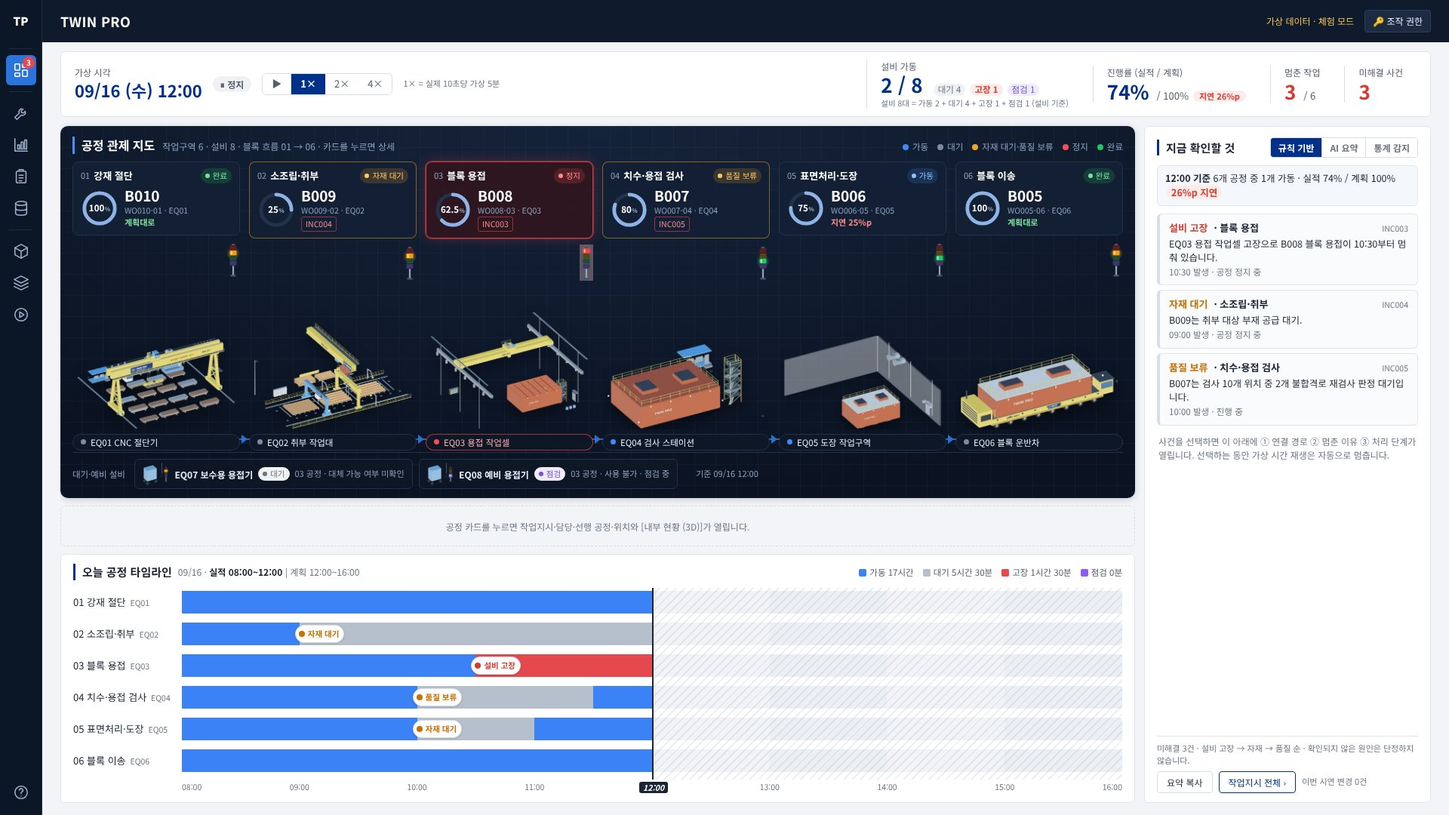
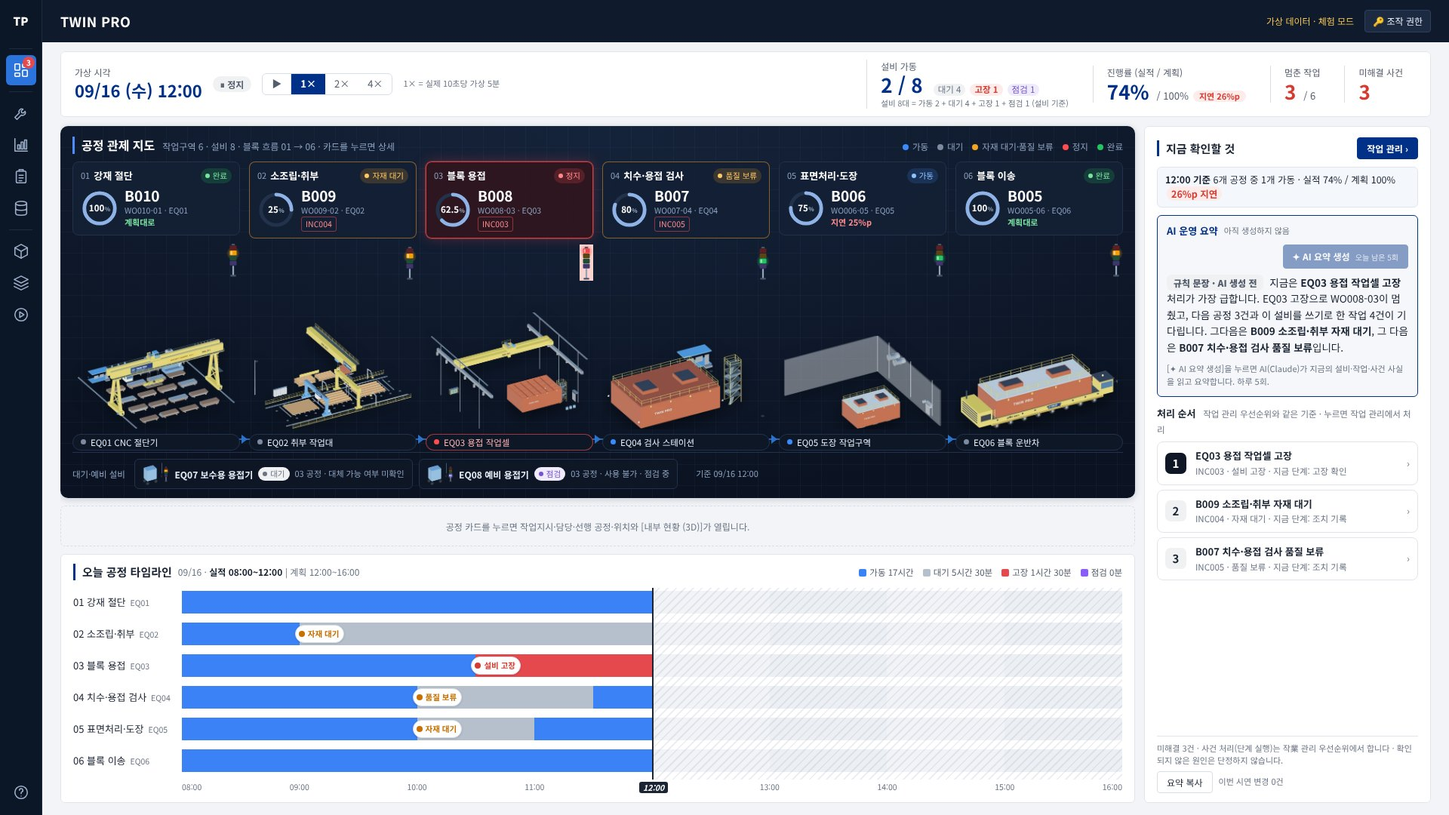
관제 '지금 확인할 것' = AI 요약 + 처리 순서, 버튼은 [작업 관리 ›] 하나
- 탭(규칙 기반 · AI 요약 · 통계 감지)과 관제 안의 사건 목록·처리 단계 삭제
- AI 운영 요약(생성 전에는 규칙 문장으로 표시) + 처리 순서 1·2·3(작업 관리 우선순위와 같은 계산)
- 처리 순서 줄·[작업 관리 ›] → 작업 관리 우선순위(그 사건 선택, 재생 자동 정지, 추적 칩)
- 우선순위 카드에 '왜 멈췄나요?' · 관련 가능성 · 설명도 버튼 추가, 다른 화면의 '관제에서 처리' 버튼은 작업 관리로 연결
- e2e 148/148

Claude-Session: https://claude.ai/code/session_0118yJohinjDPUbRGhyax1CZ

diff --git a/index.html b/index.html
@@ -1248,6 +1248,16 @@ td .small { line-height: 18px; }
 .simverr { display: none; position: absolute; left: 50%; top: 40%; transform: translate(-50%, -50%); background: rgba(11,17,27,.92); border: 1px solid #E5484D; color: #FFB3B5; padding: 12px 16px; border-radius: 8px; font-size: 13px; max-width: 520px; text-align: center; }
 .simvid.err .simverr { display: block; }
 .txctl.simmode .txb { flex: 1; }
+/* 관제 '지금 확인할 것': AI 요약 + 처리 순서(작업 관리로 이동) */
+.primini { display: flex; flex-direction: column; gap: 6px; margin-top: 12px; }
+.primini .pmh { font-size: 13px; font-weight: 700; } .primini .pmh small { font-weight: 400; color: var(--fg3); margin-left: 6px; font-size: 11.5px; }
+.pmi { display: grid; grid-template-columns: 30px minmax(0, 1fr) auto; align-items: center; gap: 10px; text-align: left; border: 1px solid var(--line); border-radius: 8px; background: #fff; padding: 8px 10px; }
+.pmi:hover { border-color: #0F1726; } .pmi > b { width: 28px; height: 28px; border-radius: 7px; background: var(--n-bg); display: grid; place-items: center; font-size: 15px; }
+.pmi.r1 > b { background: #0F1726; color: #fff; } .pmi em { display: block; font-style: normal; font-weight: 700; font-size: 13px; } .pmi small { display: block; font-size: 11.5px; color: var(--fg3); } .pmi > i { font-style: normal; color: var(--fg3); }
+.ai-text.rule { font-size: 13.5px; line-height: 1.6; } .ai-text.rule .pv-tag { margin-right: 4px; }
+.pv-whyt { font-size: 13px; line-height: 1.55; color: var(--fg); background: #F7F8FA; border-radius: 8px; padding: 7px 10px; } .pv-whyt em { font-style: normal; font-weight: 700; margin-right: 8px; }
+.pv-whyt .pv-rel { display: block; margin-top: 3px; font-size: 12px; color: #B86E00; }
+@media (max-height: 860px) { .pmi { padding: 6px 9px; } .primini { margin-top: 8px; } }
 .iso{
   --anatomy-page:#0b0b0b;--anatomy-card:#131313;--anatomy-text:#a3a3a3;--anatomy-strong:#e6e6e6;--anatomy-muted:#6e6e6e;
   --anatomy-paper:#131313;--anatomy-face:#1b1b1b;--anatomy-top:#1c1c1c;
@@ -1912,53 +1922,29 @@ function viewDash() {
       ${detail}
       ${dayTimeline()}
     </div>
-    <section class="d3side panel sidecard"><div class="ph"><h2>지금 확인할 것</h2><span class="grow"></span><span class="ptabs"><button class="${sumTab() === 'rule' ? 'on' : ''}" data-act="sub" data-arg="sum:rule">규칙 기반</button><button class="${sumTab() === 'ai' ? 'on' : ''}" data-act="sub" data-arg="sum:ai">AI 요약</button><button class="${sumTab() === 'spc' ? 'on' : ''}" data-act="sub" data-arg="sum:spc">통계 감지</button></span></div>
+    <section class="d3side panel sidecard"><div class="ph"><h2>지금 확인할 것</h2><span class="grow"></span><button class="btn pri" data-act="goPri">작업 관리 ›</button></div>
       <div class="sitline">${sitLine()}</div>
-      ${sumTab() === 'rule' ? incPanel() : `<div class="sumbody">${sumTab() === 'ai' ? aiBox() : spcBox()}</div>`}
-      <div class="sidefoot"><span class="small">미해결 ${openIncidents().length}건 · 설비 고장 → 자재 → 품질 순 · 확인되지 않은 원인은 단정하지 않습니다.</span><div class="row"><button class="btn" data-act="copySummary">요약 복사</button><button class="btn line" data-act="goWoAll">작업지시 전체 ›</button><span class="small">이번 시연 변경 ${S.events.length}건</span></div></div>
+      <div class="sumbody">${aiBox()}${priMini()}</div>
+      <div class="sidefoot"><span class="small">미해결 ${openIncidents().length}건 · 사건 처리(단계 실행)는 작업 관리 우선순위에서 합니다 · 확인되지 않은 원인은 단정하지 않습니다.</span><div class="row"><button class="btn" data-act="copySummary">요약 복사</button><span class="small">이번 시연 변경 ${S.events.filter(e => e.text !== '데모 데이터 초기화').length}건</span></div></div>
     </section>
   </div></div>`;
 }
-const sumTab = () => UI.sub.sum || 'rule';
-function spcBox() {   // 통계 이상 감지(관리도) 표: 계산은 model.js spc()
-  const SPC_L = { g: '정상', o: '주의', r: '이상' }, all = spc(), skip = all.filter(x => x.st === 'skip');
-  const rows = all.filter(x => x.st !== 'skip').map(x => { const inc = openIncidents().find(i => i.work_order_id === x.w.work_order_id);
-    const tag = x.st === 'g' ? '' : inc ? ` · ${inc.incident_id}` : ' · 사건 없음';
-    return `<tr title="${x.w.work_order_id} · 기준: 같은 공정 ${x.base.n}시간, 계획 속도 대비 평균 ${pct(x.base.m * 100, 0)} ± ${pct(x.base.sd * 100, 0)}${x.st !== 'g' && !inc ? ' · 사건이 없으니 현장 확인 필요' : ''}"><td>${p2(x.p.sequence_no)} ${esc(x.p.process_name)}</td>
-      <td>${+x.q.toFixed(1)} ${unit(x.w.unit)} (${pct(x.r * 100, 0)})</td><td class="num">${x.z.toFixed(1)}</td><td><span class="badge ${x.st}">${SPC_L[x.st]}${tag}</span></td></tr>`; }).join('');
-  return `<div class="tw"><table class="spc"><thead><tr><th>공정</th><th>직전 1시간</th><th class="num">z</th><th>판정</th></tr></thead><tbody>${rows}</tbody></table></div>
-    <span class="small">관리도: 직전 1시간 실적 ÷ 계획 속도를 09/07~09/15 같은 공정 분포와 비교. z = 평균에서 표준편차 몇 배 떨어졌는지, |z| ≥ 2 주의 · ≥ 3 이상.${skip.length ? ` 제외: ${skip.map(x => `${p2(x.p.sequence_no)}(${x.why})`).join(', ')}.` : ''} 실적은 가상 데이터(변동 포함), 원인은 판단하지 않습니다.</span>`;
+// 사건 설명 문장(작업 관리 우선순위 카드의 '왜 멈췄나요?'): 서버 상태 그대로, 확인되지 않은 원인은 단정하지 않음
+function incWhy(inc) {
+  const w = inc.work_order_id && S.wo[inc.work_order_id];
+  const min = (inc.resolved_at ? toM(inc.resolved_at) : S.now) - toM(inc.opened_at);
+  const moved = w && inc.category === 'EQUIPMENT' && w.equipment_id !== inc.equipment_id;
+  return inc.category === 'EQUIPMENT'
+    ? `${esc(eqName(inc.equipment_id))}이 ${hm(inc.opened_at)}에 고장 나 ${w ? `${w.block_id} ${esc(proc(w.process_id).process_name)}(${w.work_order_id})이 멈췄습니다. ` : ''}${inc.status === 'OPEN' ? `${minLabel(min)}째 사건이 열려 있습니다. ` : ''}${moved ? `남은 작업은 대체 설비 ${w.equipment_id}로 옮겨 ${STATUS.wo[w.status][0]} 상태입니다. ${inc.status === 'OPEN' ? `사건은 ${inc.equipment_id} 복구 때까지 열려 있습니다.` : ''}` : w ? `남은 작업은 ${pct((1 - actRatio(w)) * 100)}입니다.` : ''} 원인: ${esc(inc.summary)}`
+    : inc.category === 'MATERIAL' ? `${w ? w.block_id + ' ' + esc(proc(w.process_id).process_name) + '이 ' : ''}${esc(inc.summary)}로 멈춰 있습니다. ${esc(inc.action_note || '')}`
+    : `${w ? w.block_id + ' 검사에서 ' : ''}${esc(inc.summary)}. ${esc(inc.action_note || '')}`;
 }
-function incPanel() {
-  const list = curIncs(), inc = UI.sel.inc && incById(UI.sel.inc);
-  const item = i => { const w = i.work_order_id && S.wo[i.work_order_id], p = w ? proc(w.process_id) : proc(eqOf(incEquipment(i)).process_id);
-    const head = i.category === 'EQUIPMENT' ? `${p2(p.sequence_no)} ${esc(p.process_name)} · ${esc(eqName(i.equipment_id))}` : `${p2(p.sequence_no)} ${esc(p.process_name)} · ${esc(i.summary)}`;
-    const eq = i.equipment_id ? eqOf(i.equipment_id) : w && eqOf(w.equipment_id);
-    return `<button class="iitem ${inc === i ? 'sel' : ''}" data-act="selInc" data-arg="${i.incident_id}"><span class="row"><b class="ihd ${STATUS.cat[i.category][1]}">${STATUS.cat[i.category][0]}</b><b>· ${esc(p.process_name)}</b><span class="grow"></span>${i.status === 'RESOLVED' ? badge('inc', 'RESOLVED', '종료') : `<small class="icode">${i.incident_id}</small>`}</span>
-      <span class="iline">${i.status === 'OPEN' ? esc(incSentence(i)) : `${eq ? esc(eqName(eq.equipment_id)) : ''}${w ? ' · ' + w.block_id : ''}`}</span>
-      <small>${hm(i.opened_at)} 발생 · ${i.status === 'OPEN' ? (w && w.status === 'BLOCKED' ? '공정 정지 중' : '진행 중') : '처리 완료'}</small></button>`; };
-  let body = `<div class="ihint">사건을 선택하면 이 아래에 ① 연결 경로 ② 멈춘 이유 ③ 처리 단계가 열립니다. 선택하는 동안 가상 시간 재생은 자동으로 멈춥니다.</div>`;
-  if (inc) {
-    const cs = caseSteps(inc), w = cs.w, a = cs.active;
-    const rel = relatedIncs(inc);
-    const path = `<div class="path"><div><span class="tag">사건</span>${inc.incident_id} ${STATUS.cat[inc.category][0]} · ${hm(inc.opened_at)}</div>${w ? `<i>↓</i><div><span class="tag">작업</span>${w.work_order_id} · ${w.block_id} ${esc(proc(w.process_id).process_name)}</div>` : ''}
-      ${inc.category === 'EQUIPMENT' ? `<i>↓</i><div><span class="tag">설비</span>${esc(eqName(inc.equipment_id))} · ${STATUS.eq[eqOf(inc.equipment_id).status][0]}</div>` : ''}
-      ${rel.map(r => `<div class="maybe"><span class="tag">관련 가능성 · 확인 필요</span>${r.incident_id} ${S.wo[r.work_order_id].block_id} ${esc(r.summary)} — ${inc.equipment_id}에서 앞 공정을 한 블록</div>`).join('')}</div>`;
-    const min = (inc.resolved_at ? toM(inc.resolved_at) : S.now) - toM(inc.opened_at);
-    const moved = w && inc.category === 'EQUIPMENT' && w.equipment_id !== inc.equipment_id;
-    const why = inc.category === 'EQUIPMENT'
-      ? `${esc(eqName(inc.equipment_id))}이 ${hm(inc.opened_at)}에 고장 나 ${w ? `${w.block_id} ${esc(proc(w.process_id).process_name)}(${w.work_order_id})이 멈췄습니다. ` : ''}${inc.status === 'OPEN' ? `${minLabel(min)}째 사건이 열려 있습니다. ` : ''}${moved ? `남은 작업은 대체 설비 ${w.equipment_id}로 옮겨 ${STATUS.wo[w.status][0]} 상태입니다. ${inc.status === 'OPEN' ? `사건은 ${inc.equipment_id} 복구 때까지 열려 있습니다.` : ''}` : w ? `남은 작업은 ${pct((1 - actRatio(w)) * 100)}입니다.` : ''} 원인: ${esc(inc.summary)}`
-      : inc.category === 'MATERIAL' ? `${w ? w.block_id + ' ' + esc(proc(w.process_id).process_name) + '이 ' : ''}${esc(inc.summary)}로 멈춰 있습니다. ${esc(inc.action_note || '')}`
-      : `${w ? w.block_id + ' 검사에서 ' : ''}${esc(inc.summary)}. ${esc(inc.action_note || '')}`;
-    const steps = cs.st.map((x, n) => `<li class="${x.done ? 'done' : x === a ? 'on' : ''}"><b>${x.done ? '✓' : n + 1}</b>${x.title}</li>${x === a ? `<li class="ictlrow">${stepCtl(inc, cs, a)}</li>` : ''}`).join('');
-    const compact = a && cs.st.indexOf(a) >= 2;   // 처리가 진행되면 연결 경로를 한 줄로 줄여 처리 단계를 위로 올린다
-    body = `<div class="ph"><h3>연결 경로</h3><span class="badge g">사실</span></div>${compact ? `<div class="small" style="font-size:13px;color:var(--fg)">${inc.incident_id} → ${w ? `${w.work_order_id} (${w.block_id}) → ` : ''}${inc.category === 'EQUIPMENT' ? inc.equipment_id + ' 고장' : STATUS.cat[inc.category][0]}${rel.length ? ` · 관련 가능성 ${rel.map(r => r.incident_id).join(', ')}(확인 필요)` : ''}</div>` : path}
-      <div class="why"><b>왜 멈췄나요?</b>${why}${figHtml(inc)}</div>
-      <div class="ph"><h3>처리 단계 · ${STATUS.cat[inc.category][0]}</h3></div><ol class="isteps">${steps}</ol>
-      ${a ? '' : `<div class="note ok"><b>${UI.trial ? '처리 완료 (체험 · 저장 안 됨)' : '처리 완료'}</b>${w ? `${w.work_order_id} ${STATUS.wo[w.status][0]} · ` : ''}${inc.category === 'EQUIPMENT' ? `${inc.equipment_id} ${STATUS.eq[eqOf(inc.equipment_id).status][0]}` : ''}</div>`}`;
-  }
-  return `<section class="ipanel">
-    <div class="ilist">${list.map(item).join('') || '<div class="empty">미해결 사건이 없습니다.</div>'}</div>${body}</section>`;
+const incRelText = inc => relatedIncs(inc).map(r => `관련 가능성(확인 필요): ${r.incident_id} ${S.wo[r.work_order_id].block_id} ${esc(r.summary)} — ${inc.equipment_id}에서 앞 공정을 한 블록`).join('<br>');
+// 관제 오른쪽 '지금 확인할 것': AI 요약 + 처리 순서(작업 관리 우선순위와 같은 계산). 처리는 작업 관리에서
+function priMini() {
+  const L = priorities(); if (!L.length) return '<div class="empty">미해결 사건이 없습니다.</div>';
+  return `<div class="primini"><div class="pmh">처리 순서 <small>작업 관리 우선순위와 같은 기준 · 누르면 작업 관리에서 처리</small></div>${L.map(x => { const a = caseSteps(x.inc).active;
+    return `<button class="pmi r${Math.min(x.rank, 3)}" data-act="goPri" data-arg="${x.inc.incident_id}"><b>${x.rank}</b><span><em>${esc(priHead(x))}</em><small>${x.inc.incident_id} · ${STATUS.cat[x.inc.category][0]} · ${a ? '지금 단계: ' + a.title : '처리 완료'}</small></span><i>›</i></button>`; }).join('')}</div>`;
 }
 // 사건 설명도(Anatomy 키트로 만든 그림, 분해·조립 동작 포함). 사건 패널 '왜 멈췄나요?'의 버튼으로 크게 연다.
 // INC003 = EQ03 용접기 경보(B008), INC004 = B009 부재 공급 대기, INC005 = B007 검사 불합격. 그림은 figures/<id>/build.mjs로 만든다.
@@ -2044,7 +2030,7 @@ function aiBox() {
   return `<div class="ai-box"><div class="ai-h"><b>AI 운영 요약</b><span class="small">${S.ai ? `시연 시각 ${hm(S.ai.sim_at)} 기준${fresh ? '' : ' · <span class="c-o">이후 변경 있음</span>'}` : '아직 생성하지 않음'}</span>
     <button class="btn pri" data-act="aiGen" ${why || UI.aiBusy ? `disabled title="${why || '생성 중'}"` : ''}>${UI.aiBusy ? '생성 중…' : `✦ AI 요약 생성`} <small>오늘 남은 ${left}회</small></button></div>
     ${S.ai ? `<div class="ai-text" id="aiText">${esc(S.ai.text)}</div><span class="small">Claude(${esc(S.ai.model || '')})가 서버 DB의 현재 값만으로 작성 · 하루 ${AI_LIMIT}회 제한</span>`
-      : `<span class="small">버튼을 누르면 AI(Claude)가 지금의 설비·작업·사건 사실을 읽고 요약합니다. 하루 ${AI_LIMIT}회.</span>`}</div>`;
+      : `<div class="ai-text rule"><span class="pv-tag rule">규칙 문장 · AI 생성 전</span> ${priSentence(priorities())}</div><span class="small">[✦ AI 요약 생성]을 누르면 AI(Claude)가 지금의 설비·작업·사건 사실을 읽고 요약합니다. 하루 ${AI_LIMIT}회.</span>`}</div>`;
 }
 function histText(h) { return h ? `${hm(h.event_at)} ${STATUS.his[h.event_type] || h.event_type} · ${h.note || ''}` : '-'; }
 // 관제 오른쪽 카드 맨 위 한 줄: 운영 요약의 전체 문장(가동 공정 · 실적 대비 계획)
@@ -2114,10 +2100,10 @@ function viewEq() {
       <div class="small">${md(inc.opened_at)} ${hm(inc.opened_at)} 발생 · ${esc(inc.summary)}${w ? ` · ${w.work_order_id} (${w.block_id}) ${STATUS.wo[w.status][0]}${w.equipment_id !== id ? ' · 대체 설비 ' + w.equipment_id : ''}` : ''}</div>
       ${inc.action_note ? `<div><b style="font-size:12px">엑셀 기록 조치 메모:</b> <span style="font-size:12px">${esc(inc.action_note)} · 담당 ${esc(inc.owner_team)}</span></div>` : ''}
       ${inc.actions.length ? `<div class="tw"><table><thead><tr><th>시각</th><th>담당</th><th>조치 내용(서버 기록)</th></tr></thead><tbody>${inc.actions.map(a => `<tr><td>${hm(a.at)}</td><td>${esc(a.owner)}</td><td>${esc(a.note)}</td></tr>`).join('')}</tbody></table></div>` : ''}
-      <div class="row"><span class="small grow">사건 처리는 관제 사건 패널에서만 합니다(처리 단계 순서를 지키기 위해).</span><button class="btn pri" data-act="goInc" data-arg="${inc.incident_id}">관제 사건 패널로 ›</button></div></div>`;
+      <div class="row"><span class="small grow">사건 처리는 작업 관리 우선순위에서 합니다(처리 단계 순서를 지키기 위해).</span><button class="btn pri" data-act="goInc" data-arg="${inc.incident_id}">작업 관리에서 처리 ›</button></div></div>`;
   } else action = `<div class="empty">이 설비에 미해소 사건이 없습니다.</div>`;
   const eqBtns = e.status === 'FAULT'
-    ? `<span class="small">설비 복구는 관제 사건 패널의 [설비 복구 후 사건 종료] 단계에서 합니다.</span>`
+    ? `<span class="small">설비 복구는 작업 관리 우선순위의 [설비 복구 후 사건 종료] 단계에서 합니다.</span>`
     : UI.faultForm ? `<div class="field" style="flex:1"><span class="lb">고장 증상</span><div class="in" style="flex:1"><input type="text" id="faultSum" data-draft="faultSum" value="${esc(draft('faultSum', ''))}" placeholder="예: 도장 펌프 압력 저하" style="flex:1"></div></div>
         ${selectBox('faultSev', [['HIGH', 'HIGH'], ['MEDIUM', 'MEDIUM'], ['LOW', 'LOW']], draft('faultSev', 'HIGH'), 'data-draft')}<button class="btn danger" data-act="registerFault" data-arg="${id}">고장 등록</button><button class="btn" data-act="faultForm">취소</button>`
       : `<button class="btn danger" data-act="faultForm">고장 등록…</button><span class="small">고장 등록 시 이 설비의 진행 중 작업이 보류됩니다.</span>`;
@@ -2211,7 +2197,7 @@ function viewProd() {
       <div class="board">${cols}<div class="bcol done"><div class="bcolh"><span class="bdone">✓</span><b>다 끝난 블록</b><small>이송까지 완료 ${done.length}개</small></div><div class="bcolb">${done.map(chip).join('') || '<span class="bempty">없음</span>'}</div></div></div></section>
     <section class="panel pgside"><div class="ph"><h2>${sel} 블록이 거쳐 온 길</h2>${bws.some(isDelayed) ? '<span class="badge delay">지연</span>' : ''}<span class="sub">${esc(b.block_name)} · ${b.vessel_id} · ${b.weight_t}t · 목표 이송 ${md(b.target_transfer_at)} ${hm(b.target_transfer_at)}</span></div>
       <div class="journey">${steps}</div>
-      ${binc.length ? `<div class="alertbox"><b>멈춘 이유</b>${binc.map(i => `<div class="row"><span class="grow">${i.incident_id} ${STATUS.cat[i.category][0]} · ${esc(i.summary)}</span><button class="btn pri" data-act="goInc" data-arg="${i.incident_id}">관제에서 처리 ›</button></div>`).join('')}</div>` : ''}
+      ${binc.length ? `<div class="alertbox"><b>멈춘 이유</b>${binc.map(i => `<div class="row"><span class="grow">${i.incident_id} ${STATUS.cat[i.category][0]} · ${esc(i.summary)}</span><button class="btn pri" data-act="goInc" data-arg="${i.incident_id}">작업 관리에서 처리 ›</button></div>`).join('')}</div>` : ''}
       <div class="links">${cw ? `<button class="btn line" data-act="goEq" data-arg="${cw.equipment_id}">설비 ${cw.equipment_id} 보기 ›</button><button class="btn line" data-act="goWo" data-arg="${cw.work_order_id}">작업지시 ${cw.work_order_id} 열기 ›</button>` : ''}</div></section>
   </div></div>`;
 }
@@ -2322,10 +2308,10 @@ function woEditor(w) {
     <div class="sdfacts wofacts"><div><span>블록</span><b>${w.block_id}</b><small>${esc(S.blocks[w.block_id].block_name)}</small></div><div><span>공정</span><b>${w.process_id.slice(1)} ${esc(p.process_name)}</b></div>
       <div><span>계획 기간</span><b>${md(w.planned_start_at)} ${hm(w.planned_start_at)}~${hm(w.planned_end_at)}</b></div><div><span>진행</span><b>${+w.accepted_qty.toFixed(1)} / ${w.planned_qty} ${unit(w.unit)}</b><small>${pct(w.progress_ratio * 100)}</small></div>
       ${h ? `<div class="wide"><span>멈춘 이유</span><b class="c-r">${h.incident_id} · ${esc(h.summary)} (${STATUS.inc[h.status][0]})</b></div>` : ''}</div>
-    ${lockInc ? `<div class="wolock"><b>${STATUS.cat[lockInc.category][0]} 사건 ${lockInc.incident_id} 미해결 → 이 작업을 '진행'으로 바꿀 수 없습니다.</b><span>관제에서 사건을 먼저 처리(${lockInc.category === 'EQUIPMENT' ? '설비 복구 또는 대체 설비 승인' : '조치 기록 → 해소'})하세요. 여기서 바로 바꾸면 서버가 거부합니다.</span><button class="btn pri" data-act="goInc" data-arg="${lockInc.incident_id}">${lockInc.incident_id} 사건 처리하기 ›</button></div>` : ''}
+    ${lockInc ? `<div class="wolock"><b>${STATUS.cat[lockInc.category][0]} 사건 ${lockInc.incident_id} 미해결 → 이 작업을 '진행'으로 바꿀 수 없습니다.</b><span>작업 관리 우선순위에서 사건을 먼저 처리(${lockInc.category === 'EQUIPMENT' ? '설비 복구 또는 대체 설비 승인' : '조치 기록 → 해소'})하세요. 여기서 바로 바꾸면 서버가 거부합니다.</span><button class="btn pri" data-act="goInc" data-arg="${lockInc.incident_id}">${lockInc.incident_id} 사건 처리하기 ›</button></div>` : ''}
     <h3 class="sdh">② 바꿀 것</h3>
     <div class="form">
-      <div class="frow"><span class="req">설비</span><div>${lockInc ? `<input readonly value="${esc(eqName(w.equipment_id))}" style="width:auto;flex:1"><span class="small">🔒 ${lockInc.incident_id} 미해결 중 · 설비 변경은 별도 승인 필요</span><button class="btn line" data-act="goInc" data-arg="${lockInc.incident_id}">관제에서 처리 ›</button>`
+      <div class="frow"><span class="req">설비</span><div>${lockInc ? `<input readonly value="${esc(eqName(w.equipment_id))}" style="width:auto;flex:1"><span class="small">🔒 ${lockInc.incident_id} 미해결 중 · 설비 변경은 별도 승인 필요</span><button class="btn line" data-act="goInc" data-arg="${lockInc.incident_id}">우선순위에서 처리 ›</button>`
         : `${selectBox('woEq', eqOptions, draft('woEq', w.equipment_id), 'data-draft')}<span class="small">같은 공정 설비만 · 고장·점검 설비는 서버가 거부</span>`}</div></div>
       <div class="frow"><span class="req">작업 상태</span><div><div class="seg">${['PLANNED', 'IN_PROGRESS', 'BLOCKED', 'COMPLETED'].map(s => `<button class="${st === s ? 'on' : ''}" data-act="woStatus" data-arg="${s}">${STATUS.wo[s][0]}</button>`).join('')}</div></div></div>
       <div class="frow"><span>인정수량</span><div><input type="number" id="woQty" data-draft="woQty" min="0" max="${w.planned_qty}" step="any" value="${esc(draft('woQty', w.accepted_qty))}" style="width:120px"><span class="small">/ ${w.planned_qty} ${unit(w.unit)} · 진행률 ${pct(w.progress_ratio * 100)}</span></div></div>
@@ -2448,7 +2434,7 @@ const ACT = {
   goWoAll() { UI.mode.wo = 'table'; UI.keepMode = true; UI.f.wo = { proc: '', st: '', date: '16-17', q: '', overdue: false }; UI.page.wo = 1; UI.sub.wo = 'list'; ACT.go('wo'); },
   goOverdue() { UI.mode.wo = 'table'; UI.keepMode = true; UI.f.wo = { proc: '', st: '', date: '', q: '', overdue: true }; UI.page.wo = 1; UI.sub.wo = 'list'; ACT.go('wo'); },
   goBlock(id) { UI.mode.prod = 'table'; UI.keepMode = true; if (id) UI.sel.block = id; UI.f.prod = { vessel: '', proc: '', st: '', q: '' }; ACT.go('prod'); },
-  goInc(id) { ACT.go('dash'); ACT.selInc(id); },
+  goInc(id) { ACT.goPri(id); },   // 사건 처리는 작업 관리 우선순위에서
   selEq(id) { UI.sel.eq = id; UI.sel.inc = null; UI.faultForm = false; delete UI.draft.actNote; render(); },
   selInc(id) { UI.sel.inc = id; const i = incById(id); UI.sel.node = i && i.work_order_id || null; delete UI.draft.subEq; UI.figModal = false;
     if (UI.simOn) { stopSim(); UI.pausedFor = '사건 확인 중'; } render(); },   // 사건을 고르면 재생을 자동으로 멈춘다
@@ -2456,7 +2442,7 @@ const ACT = {
   selEqInc(id) { UI.sel.inc = id; render(); },
   selNode(id) { UI.sel.node = UI.sel.node === id ? null : id; render(); },
   subEq(e) { UI.draft.subEq = e; render(); },
-  figOpen() { UI.figModal = true; render(); },
+  figOpen(id) { if (id) UI.sel.inc = id; UI.figModal = true; render(); },
   figClose() { UI.figModal = false; render(); },
   speed(v) { UI.speed = +v; if (UI.simOn) { clearInterval(simTimer); simTimer = setInterval(simTick, simMs()); } render(); },
   stepDo(k) { return stepDo(incById(UI.sel.inc), k); },
@@ -2523,7 +2509,7 @@ Object.assign(ACT, {
     try { const r = await API.ai(); toast(r.msg || (r.ok ? '완료' : '실패'), !r.ok); if (!r.ok && /시연 코드가 필요/.test(r.msg || '')) { UI.canWrite = false; UI.codeOpen = true; } }
     catch (e) { toast('AI 서버 호출 실패: ' + (e.message || e), true); }
     finally { UI.aiBusy = false; await reload().catch(() => render()); } },
-  copySummary() { const t = sumTab() === 'ai' && S.ai ? S.ai.text : summaryText(kpis()); navigator.clipboard?.writeText(t).then(() => toast('운영 요약을 복사했습니다.'), () => { const r = document.createRange(); r.selectNodeContents(document.getElementById('summaryText') || document.getElementById('aiText')); getSelection().removeAllRanges(); getSelection().addRange(r); toast('복사가 막혀 있어 요약 문장을 선택해 두었습니다. Ctrl+C로 복사하세요.'); }); },
+  copySummary() { const t = S.ai ? S.ai.text : summaryText(kpis()); navigator.clipboard?.writeText(t).then(() => toast('운영 요약을 복사했습니다.'), () => { const r = document.createRange(); r.selectNodeContents(document.getElementById('summaryText') || document.getElementById('aiText')); getSelection().removeAllRanges(); getSelection().addRange(r); toast('복사가 막혀 있어 요약 문장을 선택해 두었습니다. Ctrl+C로 복사하세요.'); }); },
 });
 // 자동 재생: 이 탭에서만 돈다(탭을 닫으면 멈춤). 신호는 전부 서버 규칙을 거친다.
 let simTimer = null, simBusy = false;
@@ -2736,8 +2722,9 @@ function priCard(x, sel) {
     <div class="pv-pb"><div class="pv-pt">${esc(priHead(x))}<small>${id} · ${STATUS.cat[x.inc.category][0]}</small></div>
       <div class="pv-why">${chip('blocks', x.blocks ? '예' : '아니오')}${chip('stopped', x.stopped ? '예' : '아니오')}${chip('min', minLabel(x.min))}${chip('wait', x.wait + '건')}${sub}</div>
       <div class="pv-path"><em>근거 경로</em>${path}</div>
+      ${sel ? `<div class="pv-whyt"><em>왜 멈췄나요?</em>${incWhy(x.inc)}${relatedIncs(x.inc).length ? `<span class="pv-rel">${incRelText(x.inc)}</span>` : ''}</div>` : ''}
       ${sel ? steps : `<div class="pv-do"><em>지금 단계</em>${a ? a.title : '처리 완료'}<span class="grow"></span><button class="btn">처리하기 ›</button></div>`}
-      ${sel ? `<div class="pv-links">${x.wo ? `<button class="btn line" data-act="goWo" data-arg="${x.wo}">작업지시 ${x.wo} 열기 ›</button>` : ''}<button class="btn line" data-act="goInc" data-arg="${id}">관제에서 보기 ›</button></div>` : ''}</div></div>`;
+      ${sel ? `<div class="pv-links">${x.wo ? `<button class="btn line" data-act="goWo" data-arg="${x.wo}">작업지시 ${x.wo} 열기 ›</button>` : ''}${hasFig(x.inc) ? `<button class="btn line" data-act="figOpen" data-arg="${id}">🔍 ${x.inc.category === 'EQUIPMENT' ? '고장 부위' : '상황'} 설명도</button>` : ''}</div>` : ''}</div></div>`;
 }
 function priGraph(x) {
   if (!x) return '<div class="pv-graph pv-dark"><div class="empty">미해결 사건이 없습니다.</div></div>';
@@ -2849,7 +2836,9 @@ Object.assign(ACT, {
   pvEq(id) { UI.mode.eq = 'table'; ACT.goEq(id); },
   pvBlock(id) { UI.mode.prod = 'table'; ACT.goBlock(id); },
   pvProc(id) { UI.mode.base = 'table'; UI.sub.base = 'proc'; UI.sel.proc = id; render(); },
-  priSel(id) { UI.sel.pri = id; delete UI.draft.subEq; delete UI.draft.wizNote; render(); },
+  priSel(id) { UI.sel.pri = id; UI.sel.inc = id; delete UI.draft.subEq; delete UI.draft.wizNote; UI.figModal = false;   // 처리할 사건을 고르면 위쪽에 추적 칩, 재생은 자동으로 멈춤
+    if (UI.simOn) { stopSim(); UI.pausedFor = '사건 확인 중'; } render(); },
+  goPri(id) { if (id) { UI.sel.pri = id; UI.sel.inc = id; if (UI.simOn) { stopSim(); UI.pausedFor = '사건 확인 중'; } } ACT.go('wo'); },   // 관제·다른 화면 → 작업 관리 우선순위(그 사건 선택)
   priStep(a) { const [id, k] = a.split(':'); UI.sel.pri = id; return stepDo(incById(id), k); },
   async priAi() { if (UI.aiBusy) return; UI.aiBusy = true; render();
     try { const r = await API.ai('priority'); toast(r.msg || (r.ok ? '완료' : '실패'), !r.ok); if (!r.ok && /시연 코드가 필요/.test(r.msg || '')) { UI.canWrite = false; UI.codeOpen = true; } }
@@ -3840,7 +3829,7 @@ function t3xHud() {   // t3Shell 안(시뮬레이션이 아닐 때)
     <div class="xleg">✓ 완료 · ● 지금 할 일 · ○ 대기</div>
     ${cs.st.map((x, i) => `<div class="xst ${x.done ? 'done' : x === a ? 'on' : ''}"><i>${x.done ? '✓' : x === a ? '●' : '○'}</i><span>${esc(x.title)}${x.key === 'approve' ? ' <u>승인 필요</u>' : ''}</span><small>${x.done ? '완료' : x === a ? '지금 할 일' : '대기'}</small></div>`).join('')}
     <div class="xsec">처리 기록 · 서버</div>${log.length ? log.map(([t, x]) => `<div class="xlog"><span>${hm(t)}</span>${esc(x)}</div>`).join('') : '<div class="xlog none">아직 기록이 없습니다. 아래 버튼을 누르면 여기에 남습니다.</div>'}
-    <button class="txb wide" data-act="goInc" data-arg="${inc.incident_id}">관제 화면에서 자세히 ›</button></div>`;
+    <button class="txb wide" data-act="goInc" data-arg="${inc.incident_id}">작업 관리에서 처리 ›</button></div>`;
   const ev = t3xEvidence(inc, cs, a), L = T3X.last && T3X.last.inc === inc.incident_id ? T3X.last : null, w = cs.w;
   const still = w ? (nodeState(w).stop ? `${cs.e.equipment_id} ${STATUS.eq[cs.e.status][0]} · ${w.block_id} ${STATUS.wo[w.status][0]} 유지${a && a.key !== 'resume' ? ' (작업 재개 단계에서 바뀝니다)' : ''}` : `${w.block_id} ${STATUS.wo[w.status][0]} · ${w.equipment_id}에서 진행`) : '';
   const res = L ? `<div class="xres"><div><span>방금 처리</span><b>✓ ${esc(L.title)}</b></div><div><span>현재 상태</span><em>${esc(still)}</em></div><div><span>다음 단계</span><em>${a ? esc(a.title) : '없음 · 사건 종료'}</em></div></div>` : '';

diff --git a/README.md b/README.md
@@ -130,11 +130,11 @@
    - 설비 그림(2026-10-30 교체): 3D 조선소 모델에서 공정마다 설비만 떼어 같은 각도로 렌더한 그림입니다(바닥 · 도로 · 다른 공정은 지움, 투명 배경). 그래서 3D 화면과 모양 · 색이 같습니다. 01 자기 갠트리 크레인과 강재, 02 취부 작업장과 갠트리, 03 용접동 천장 크레인과 블록(지붕 · 벽을 걷어 냄), 04 검사 블록과 측정 타워, 05 도장 부스(벽을 반투명으로)와 블록, 06 블록 운반차입니다. 대기·예비 설비 아이콘은 03 용접동의 이동식 용접기 모델입니다.
    - 카드를 누르면 지도 아래에 「<블록> 상세」(작업지시 · 담당 · 선행 공정 · 위치 · 실적/계획)와 [🔍 내부 현황 (3D)] 버튼(블록 내부 3D로 이동)이 열립니다. 카드를 누르기 전에는 같은 자리에 같은 높이의 안내 줄이 있어서, 눌러도 화면이 위아래로 움직이지 않습니다.
    - 「오늘 공정 타임라인」: 공정 6곳의 08:00~16:00 상태 구간 막대입니다(가동 파랑 · 대기 회색 · 고장 빨강 · 점검 보라). 12:00 세로선 왼쪽은 실적, 오른쪽 빗금은 계획 구간입니다. 사건이 난 시각에 「설비 고장」 · 「자재 대기」 · 「품질 보류」 표시가 붙고, 범례에는 상태별 누적 시간이 나옵니다.
-   - 오른쪽 카드(2026-10-30 통합): 「지금 확인할 것」과 「운영 요약」을 하나로 합쳤습니다. 맨 위에 탭(규칙 기반 · AI 요약 · 통계 감지), 그 아래 지금 상황 한 줄(「12:00 기준 6개 공정 중 1개 가동 · 실적 74% / 계획 100% · 26%p 지연」), 그 아래 미해결 사건이 나옵니다. 사건마다 2줄째가 운영 요약 문장입니다(예: 「EQ03 용접 작업셀 고장으로 B008 블록 용접이 10:30부터 멈춰 있습니다.」). 맨 아래 줄에 [요약 복사] · [작업지시 전체 ›]가 있습니다. 사건 항목은 접히지 않습니다.
-   - 사건 선택: 사건을 누르면 그 아래에 ① 연결 경로(사건 → 작업 → 설비, 한 줄 흐름) ② 왜 멈췄나요?(멈춘 이유, [🔍 고장 부위 설명도 보기] 또는 [🔍 상황 설명도 보기]) ③ 처리 단계(번호 칩 줄, 지금 단계만 이름 표시 + 메모 칸과 실행 버튼)가 나옵니다. 재생 중에 사건을 누르면 재생이 자동으로 멈춥니다. 기준시점 미해결 사건은 INC003 설비 고장 · INC004 자재 대기 · INC005 품질 보류 3건입니다.
-   - 탭: 「규칙 기반」은 위의 사건 목록(서버 값으로 바로 만든 요약), 「AI 요약」은 AI(Claude)가 만든 요약(조작 권한 필요, 하루 5회), 「통계 감지」는 직전 1시간 실적을 09/07~09/15 같은 공정 분포와 비교한 관리도입니다. [요약 복사]는 전체 요약 문장을 복사합니다.
+   - 오른쪽 카드(2026-10-31 정리): 「지금 확인할 것」 하나로, 탭 없이 버튼은 [작업 관리 ›] 하나입니다. 위에서부터 지금 상황 한 줄(「12:00 기준 6개 공정 중 1개 가동 · 실적 74% / 계획 100% · 26%p 지연」) → **AI 운영 요약**(AI(Claude)가 만든 요약, 조작 권한 필요 · 하루 5회. 생성 전에는 「규칙 문장 · AI 생성 전」 표시와 함께 규칙으로 만든 문장을 보여 줌) → **처리 순서** 1·2·3(작업 관리 우선순위와 같은 계산, 각 줄에 지금 단계 표시) → 맨 아래 [요약 복사]입니다.
+   - 처리 순서의 줄이나 [작업 관리 ›]를 누르면 작업 관리 [우선순위] 화면으로 넘어가고, 누른 사건이 선택된 채로 열립니다. 재생 중이면 재생이 자동으로 멈추고 위쪽에 「추적 중」 칩이 나옵니다. 기준시점 미해결 사건은 INC003 설비 고장 · INC004 자재 대기 · INC005 품질 보류 3건입니다.
+   - 이전의 「규칙 기반 · AI 요약 · 통계 감지」 탭과 관제 안의 사건 목록 · 처리 단계는 없앴습니다. 사건 처리는 작업 관리 우선순위 카드에서 합니다(6번).
    - 이전 화면의 「작업지시 현황」 표와 「공정별 달성률」 고리 패널은 없앴습니다. 같은 정보가 지도 카드(진행률 고리 · 작업지시)와 작업 관리 화면에 있습니다.
-6. **사건을 처리합니다.** 사건 패널에서 사건을 고르면 처리 단계가 나오고, 지금 할 단계에만 버튼이 있습니다. 버튼을 누를 때마다 한 단계씩 진행됩니다. 사건 종류에 따라 단계가 다릅니다.
+6. **사건을 처리합니다.** 작업 관리 [우선순위]에서 카드를 고르면(관제 처리 순서에서 눌러도 됨) 그 카드에 ① 근거 경로 ② 왜 멈췄나요?(멈춘 이유, 관련 가능성, [🔍 고장 부위 설명도] / [🔍 상황 설명도]) ③ 처리 단계가 나오고, 지금 할 단계에만 버튼이 있습니다. 버튼을 누를 때마다 한 단계씩 진행됩니다. 사건 종류에 따라 단계가 다릅니다.
    - 설비 고장, 같은 공정에 대체 적합성 기준정보가 있는 설비가 있을 때(7단계): 고장 확인 → 대체 가능 여부 확인 → 적합성 확인 (WPS·출력·자격·위치) → 관리자 승인 → 설비 변경 (남은 작업만 이관) → 작업 재개 → 설비 복구 후 사건 종료
    - 설비 고장, 대체 후보가 없을 때(3단계): 고장 확인 → 설비 복구 후 사건 종료 → 작업 재개
    - 자재 대기(3단계): 조치 기록 → 사건 해소 → 작업 재개
@@ -142,7 +142,7 @@
    - 첫 단계에는 메모 칸이 있습니다(예: 전원장치 경보 확인, 정비조 점검 시작). 비워 두면 "고장 확인: <사건 요약>" 또는 "현장 조치: <사건 요약>"으로 기록합니다.
    - 대체 설비 단계에서는 후보 설비의 WPS(용접 절차) · 출력 · 작업자 자격 · 위치를 ✓(적합) · △(조건부) · ✕(부적합)로 보여 주고, 고장 · 점검 중인 설비는 후보에서 뺍니다. 이관하면 남은 작업만 대체 설비로 옮기고, 이미 한 실적은 원래 설비에 남습니다. 작업을 재개해도 사건은 고장 설비가 복구될 때까지 열려 있습니다.
    - 마지막 단계의 [<설비> 복구 확인 · 사건 종료] 버튼(예: [EQ03 복구 확인 · 사건 종료])은 복구 확인 기록 → 사건 해소 → 설비 대기 복구를 한 번에 처리합니다. 정비가 끝난 뒤에 누릅니다.
-   - 사건 처리는 이 패널에서만 합니다(처리 순서를 지키기 위해). 설비 상태 화면의 [관제 사건 패널로 ›], 작업 관리 설비 칸의 [관제에서 처리 ›]도 이 패널을 엽니다.
+   - 사건 처리는 작업 관리 우선순위 카드에서만 합니다(처리 순서를 지키기 위해). 설비 상태 화면의 [작업 관리에서 처리 ›], 생산 현황의 [작업 관리에서 처리 ›], 작업 관리 편집 칸의 [우선순위에서 처리 ›], 3D 사건 현장의 [작업 관리에서 처리 ›]도 이 카드를 엽니다.
 7. **가상 시간을 진행합니다.** 가상 시각 옆 ▶를 누르면 1× 기준 실제 10초마다 가상 5분이 흐릅니다(2×는 5초, 4×는 2.5초마다). ⏸를 누르면 멈춥니다. 같은 버튼이 3D 조선소 도구줄에도 있습니다.
    - 조작 권한이 있으면 서버 시계가 5분씩 진행되고(`tp_advance_clock`), 가동 중인 설비마다 계획수량의 10%씩 생산 카운트 신호(`tp_ingest_signal`)를 보내 실적이 쌓입니다. 모든 화면의 시각이 함께 바뀝니다.
    - 재생은 한 화면만 할 수 있습니다(재생 잠금 `tp_sim_claim` · `tp_sim_release`). 다른 화면이 재생 중이면 버튼이 「다른 화면에서 시간 진행 중」으로 잠기고, 재생하던 화면이 멈추거나 닫히면 잠시 뒤 풀립니다. 재생은 누른 탭에서만 돌고, 탭을 닫거나 16:00이 되면 멈춥니다.
@@ -210,7 +210,7 @@
 |---|---|---|---|
 | 0:00 | 통합 관제 | 확인만 | 블록은 01 강재 절단 → 06 블록 이송 6단계를 거친다. 03 블록 용접(B008)만 빨강 '정지', 02 · 04는 주황 → **어디가 멈췄는지 바로 보인다** |
 | 0:20 | 통합 관제 | 가상 시각 옆 ▶ → 10초쯤 뒤 ⏸ | 시각이 5분씩 흐르고 가동 중인 공정(05 도장 등)의 실적이 오르지만, 고장 난 03 용접은 멈춘 채로 남음 → **고장 난 곳만 일이 안 된다** |
-| 0:40 | 통합 관제 · 사건 패널 | INC003 선택 → 처리 단계 버튼을 차례로 누름 | 연결 경로(INC003 → WO008-03 (B008) → EQ03 고장)와 멈춘 이유가 보이고, 단계는 순서대로 하나씩만 진행됨. 끝나면 미해결 사건 3 → 2, 멈춘 작업 3 → 2, 설비 가동 2 → 3 → **현장 순서를 지키게 하고, 결과가 바로 반영된다** |
+| 0:40 | 통합 관제 처리 순서 → 작업 관리 우선순위 | 1순위 INC003 → 카드의 처리 단계 버튼을 차례로 누름 | 연결 경로(INC003 → WO008-03 (B008) → EQ03 고장)와 멈춘 이유가 보이고, 단계는 순서대로 하나씩만 진행됨. 끝나면 미해결 사건 3 → 2, 멈춘 작업 3 → 2, 설비 가동 2 → 3 → **현장 순서를 지키게 하고, 결과가 바로 반영된다** |
 | 1:40 | 3D 조선소 | 「3D 조선소」 탭 | 03 블록 용접의 빨간 경광등이 초록(작업 중)으로 바뀌어 있고, 오른쪽 「오늘 합계」도 같은 숫자 → **하나의 조치가 2D · 3D 모든 화면에 같은 사실로 반영된다** |
 | 2:00 | 블록 내부 3D | 오른쪽 패널 [🔍 B008 블록 내부 3D] 또는 「블록 내부 3D」 탭에서 B008 선택 → [▶ 조립 시뮬레이션] | B008의 공정별 수량(72/72 piece · 8/8 set · 용접 m)과 부재 72개 · 소조립 세트 8개가 블록이 되는 과정 |
 | 2:20 | 통합 관제 | 「운영 요약」 → 「AI 요약」 탭 → [✦ AI 요약 생성] | AI가 현재 상황과 이상 상황을 보고서 문장으로 정리(같은 서버를 보는 모든 화면에서 같은 요약을 봄) |
@@ -246,7 +246,7 @@
    - 가상 시간이 흐르는 동안 작업 중인 공정의 크레인(01 · 03) · 갠트리(02) · 운반차(06)가 움직이고, 03 용접이 작업 중이면 불꽃이 튑니다.
    - 공정 상자나 이름표를 누르면 공정 카드(상태 · 수량 · 진행 · 작업지시, 그 블록의 공정별 진행, [이 블록 제조 과정 보기 ›])가 열립니다. 마우스 드래그로 회전, 휠로 확대합니다.
    - 오른쪽 패널: 「오늘 합계」(작업 중 공정 · 가동 기계 · 오늘 끝난 작업 · 해결 안 된 문제), 「공정별 블록」, 「확인할 문제」(지금 처리할 사건과 다음 단계, [🔍 B008 블록 내부 3D] · [↩ 관제로 돌아가 조치]), 「이 화면은」(Blender 코드로 만든 가상 조선소이며 상태 · 수량은 서버 데이터라는 설명). [패널]로 접고 펼칩니다.
-4. 사건 처리는 관제 사건 패널([↩ 관제로 돌아가 조치])에서도, 아래 '사건 현장'에서 3D로도 할 수 있습니다. 둘 다 같은 서버 규칙 함수를 부르며, 처리하면 3D의 경광등 · 이름표 · 바닥 표기가 바로 바뀝니다. 시연 코드가 없으면 체험 결과(저장 안 됨)가 그대로 보입니다.
+4. 사건 처리는 작업 관리 우선순위 카드에서도, 아래 '사건 현장'에서 3D로도 할 수 있습니다. 둘 다 같은 서버 규칙 함수를 부르며, 처리하면 3D의 경광등 · 이름표 · 바닥 표기가 바로 바뀝니다. 시연 코드가 없으면 체험 결과(저장 안 됨)가 그대로 보입니다.
 
 **3D 관제 연출 (2026-10-24 추가)**
 
@@ -407,7 +407,7 @@ curl -X POST "https://rrgvqgphhwzkeuvdwndu.supabase.co/rest/v1/rpc/tp_ingest_sig
 | 검사 합격률 | PASS 차수 ÷ 전체 검사 차수 (불합격 0건인 차수 = 합격) |
 | 공정별 계획 대비 실적 | 계획 종료 ≤ 시연 시각 작업의 Σ인정수량 ÷ Σ계획수량, 공정별 자기 단위 안에서만 합산 |
 | 공정별 달성률(관제) | 오늘 작업지시의 실적 비율(고리)과 지금 시각의 계획 비율(눈금) |
-| 통계 감지(관리도) | r = 직전 1시간 실적 ÷ 계획 속도(계획수량 ÷ 계획 운영시간). 기준 = 09/07~09/15 같은 공정 r의 평균 · 표준편차, z = (r − 평균) ÷ 표준편차. \|z\| ≥ 2 주의, ≥ 3 이상. set · block 단위 공정, 시작 전 · 완료 · 계획 시간 밖, 직전 실적 30분 미만, 기준 데이터 5시간 미만은 판정하지 않음 |
+| 통계 감지(관리도) — 2026-10-31부터 화면에 표시하지 않음(계산 함수만 남김) | r = 직전 1시간 실적 ÷ 계획 속도(계획수량 ÷ 계획 운영시간). 기준 = 09/07~09/15 같은 공정 r의 평균 · 표준편차, z = (r − 평균) ÷ 표준편차. \|z\| ≥ 2 주의, ≥ 3 이상. set · block 단위 공정, 시작 전 · 완료 · 계획 시간 밖, 직전 실적 30분 미만, 기준 데이터 5시간 미만은 판정하지 않음 |
 
 ### 보안
 
@@ -475,6 +475,7 @@ node e2e.js                              # 결과: e2e_result.json, 스크린샷
 
 ## 7. 검증 결과
 
+- 2026-10-31 빌드(관제 오른쪽 = AI 요약 + 처리 순서, 사건 처리는 작업 관리로 일원화): 자동 테스트 148/148 통과. 관제 사건 처리 시나리오(7단계 · 대체 후보 없는 고장 · 품질 해소 · 체험 모드 · 재생 중 선택)를 모두 「관제 처리 순서 → 작업 관리 우선순위 카드」 경로로 바꿔 검사합니다.
 - 2026-10-31 빌드(공정 교육 재생 = 16배속 녹화 영상, 30초 요약은 삭제): 자동 테스트 147/147 통과. 추가 검사: 기본이 영상(webm · mp4 두 형식) · 화면 넓게 · 단계 칩 6개, 32배속 버튼, [3D 직접 재생] 전환 시 영상 닫힘 · 배속 선택, [16배속 영상]으로 복귀.
 - 2026-10-31 빌드(관리 화면 [그림] 보기 · 작업 관리 우선순위): 로컬 Postgres + 실제 화면 클릭 자동 테스트 143/143 통과. 추가한 검사는 다음과 같습니다.
   - 설비 그림: 카드 8 · 작업구역 6 · EQ03 고장 강조 · 지시선 8 / 생산 그림: 블록 12칸 · 완성 5/12 · 멈춤 · 자재 대기 · 시작 전 / 기준정보 그림: 공정 6 · 설비 8(대체 2)
